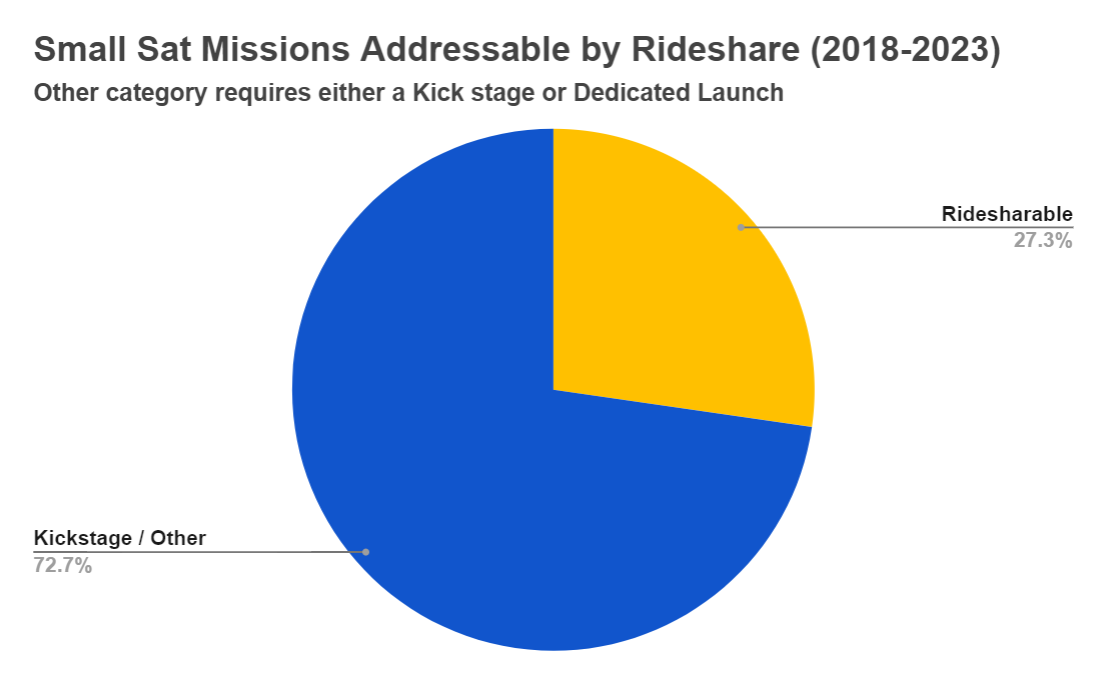
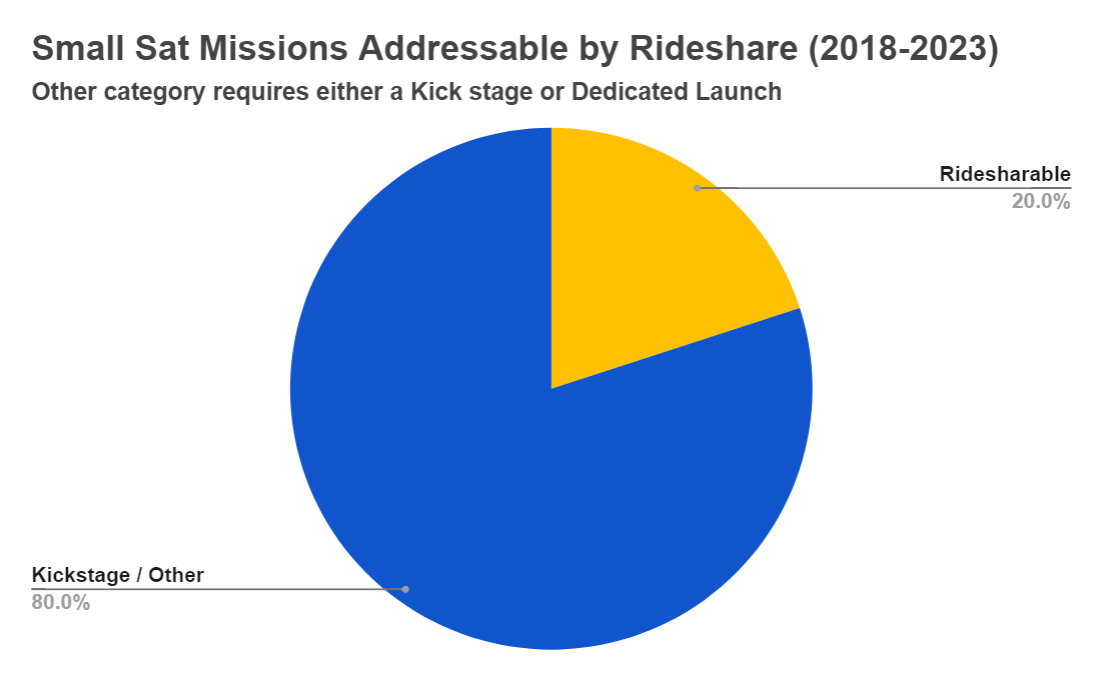
fixed data

diff --git a/_posts/2024-02-10-smallsats-vs-rideshare.md b/_posts/2024-02-10-smallsats-vs-rideshare.md
@@ -39,57 +39,57 @@ In the last 5 years Rocket Lab's Electron dedicated small satellite launches and
 
 First, we must understand the categories of small satellites. 
 
-### Rideshareable Satellites
+### <b>Rideshareable Satellites</b>
 ![Image description]({{site.url}}/assets/images/2024-02-10/Small-Sat-Missions-Addressable-By-Rideshare.png){: width="600" .align-center}
 + Planet Labs launches example
 
-In the past 5 years (2018-2023), 55 dedicated small sat launches have occured exlucing Chinese rockets. By my criteria, 15 of these missions could have been completed through launching on a rideshare mission. However, about five of these appear to perfer a dedicated launch and the remaining ten are well suited for a rideshare mission on a medium launch vehicle.
+In the past 5 years (2018-2023), 55 dedicated small sat launches have occured exlucing Chinese rockets. By my criteria, 11 of these missions could have been completed through launching on a commercial rideshare mission. However, five of these appear to perfer a dedicated launch and the remaining six are more well suited for a rideshare mission on a medium launch vehicle.
 
 These missions are (Rocket, Payload):
 1. Electron - Dove/Lemurs
 2. Electron - CICERO 10/Lemurs
 3. Electron - ALE-2
-4. Vega     - Rideshare
-5. Electron - Dragracer/BRO/SpaceBEE
-6. Electron - Strix-Alpha
+4. Electron - Dragracer/BRO/SpaceBEE
+5. Electron - Strix-Alpha
+6. LauncherOne - Rideshare
 7. LauncherOne - Rideshare
-8. Rocket 3 - Rideshare
-9. Electron - Strix-Beta
-10. LauncherOne - Rideshare
-11. Rocket 3 - Rideshare
-12. Electron - E-Space Demo
-13. Alpha - Rideshare
-14. SSLV - ESO-07
-15. GYUB - S-STEP
+8. Electron - Strix-Beta
+9. Rocket 3 - Rideshare
+10. Electron - E-Space Demo
+11. Alpha - Rideshare
 
-The rideshare missions and Planet Labs Lemur launches are well suited for a rideshare mission on a medium launch vehicle (MLV). The rideshare missions are mainly risky flights of unproven launch vehicles (Astra Rocket 3 flight 6, Firefly Alpha flight 2). The reason these payloads flew on a small launch vehicle (SLV) is likely due to the lower cost of flying on a risky rocket. The Vega rideshare mission is part of an ESA program to launch small satellites. The ESA perfers launching payloads on their own rockets, and appear to only launch on non-european rockets <a href="https://spacenews.com/europe-considers-launching-copernicus-satellite-on-falcon-9/#:~:text=ESA%20and%20the%20European%20Commission%20already%20have%20plans%20for%20as,planned%20to%20launch%20in%20October.">bregrudingly</a>. The two launches with Planet Labs satellites are also well suited to a rideshare missions because an exact orbit is not required. Planet Labs has been launching payloads on rideshare missions since the first flight of Antares.
+The rideshare and Planet Labs Lemur launches are well suited for a rideshare mission on a medium launch vehicle (MLV). The rideshare missions are all risky flights on unproven launch vehicles (Astra Rocket 3, Firefly Alpha, Virgin Orbit LauncherOne). The reason these payloads flew on a small launch vehicle (SLV) is likely due to the lower cost of flying on a risky rocket. For example, many low-cost Government / Military rideshare payloads flew on Virgin Orbit's LauncherOne. The two launches with Planet Labs satellites are also well suited to a rideshare missions because an exact orbit is not required. Planet Labs has been launching payloads on rideshare missions since the first flight of Antares.
 
-The remaining five missions require a commonly-used Sun Synchronous Orbit (SSO). This is a ~500km orbit at an inclination of 98 degrees that allows a satellite to pass over locations on Earth at regular intervals. For example, an imaging satellite can use this orbit to pass over Vancouver at 3:00 PM every day to take images during rush hour. Every SpaceX Transporter rideshare mission has gone to this orbit.
+The remaining five missions better suited for dedicated launch all require a commonly-used Sun Synchronous Orbit (SSO). This is a ~500km orbit at an inclination of 98 degrees that allows a satellite to pass over locations on Earth at regular intervals. For example, an imaging satellite can use this orbit to pass over Vancouver at 3:00 PM every day to take images during rush hour. This is the orbit every SpaceX Transporter rideshare mission has gone to, but there are more considerations than the end destination.
 
-The reason for launching on a dedicated launch instead of a rideshare mission is likely to be schedule requirements. Rideshare missions only launch a couple of times per year and are scheduled by the launch provider. A Small Sat Operater does not have the same control over the launch date or exact orbit as on a dedicated launch. This is often cited as the primary reason for companies choosing a dedicated SLV launch over a rideshare mission. However, these five missions account for only 16% of the commercial small sat launches in the last 5 years.
+The reason for launching on a dedicated launch instead of a rideshare mission is likely to be schedule requirements. Rideshare missions only launch a couple of times per year and are scheduled by the launch provider. Small sat operaters have much more control over launch date and orbital parameters when flying on a dedicated launch vehicle. This is often cited as the primary reason for companies choosing a dedicated launch over a rideshare mission. However, these five missions account for only 9% of the small sat launches in the last 5 years.
 
-### Kick Stageable Satellites
+### <b>Kick Stageable Satellites</b>
 ![Image description]({{site.url}}/assets/images/2024-02-10/Small-Sat-Missions-Addressable-By-Launch-Types.png){: width="600" .align-center}
 
-Only four of the previous 31 commercial small sat missions could have been completed on a rideshare mission using a kick stage. A Kick Stage is a small stage on top of the rocket that can change the orbit of the payload so it is delivered to the specific orbit that is required.
+Only five of the previous 55 small sat launches could have been completed on a rideshare mission using a kick stage. A Kick Stage is a small stage on top of the rocket that can change the orbit of the payload so it is delivered to the specific orbit that is required.
 
-Each of these four launches have satellites that require unique orbits around the Earth and cannot use the default SSO orbit that many rideshare missions arrive at.  
 Missions (Rocket, Payload):
 1. Electron - Palisade
 1. Electron - GMS-T
 1. Electron - GAzella
+1. Electron - MATS
 1. Electron - Rideshare
 
-The highest orbit is that of Paliside, 1,200km at an 88 degree inclination as of February 9 2024. The lowest orbit is GAzelle at 750km and a 99 degree inclination.
+Each of these five launches have satellites that require unique orbits around the Earth and cannot use the default SSO orbit that many rideshare missions arrive at. The highest orbit is that of Paliside, 1,200km at an 88 degree inclination as of February 9 2024. The lowest orbit is MATS at 590km and a 98 degree inclination.
 
-All the launches have inclinations that are within several degrees of the 98 degrees that is common for rideshare missions. Inclination changes require immense amounts of fuel to complete, so more than a couple degrees of inclination change is not reasonable to be completed with a kick stage.
+All the launches mentioned above have inclinations that are within several degrees of the 98 degrees that is common for rideshare missions. Inclination changes require immense amounts of fuel to complete, so more than a couple degrees of inclination change is not reasonable to be completed with a kick stage.
 
-### Dedicated Launch Required Satellites
+### <b>Dedicated Launch Required Satellites</b>
 ![Image description]({{site.url}}/assets/images/2024-02-10/Small-Sat-Types.png){: width="600" .align-center}
 + Include satellite types
 
-### Cost Estimates
+### <b>Military and Government Satellites</b>
+
+The Vega rideshare mission is part of an ESA program to launch small satellites. The ESA perfers launching payloads on their own rockets, and appear to only launch on non-european rockets <a href="https://spacenews.com/europe-considers-launching-copernicus-satellite-on-falcon-9/#:~:text=ESA%20and%20the%20European%20Commission%20already%20have%20plans%20for%20as,planned%20to%20launch%20in%20October.">bregrudingly</a>. 
+
+### <b>Cost Estimates</b>
 
 
-### Summary
+### <b>Summary</b>
 
